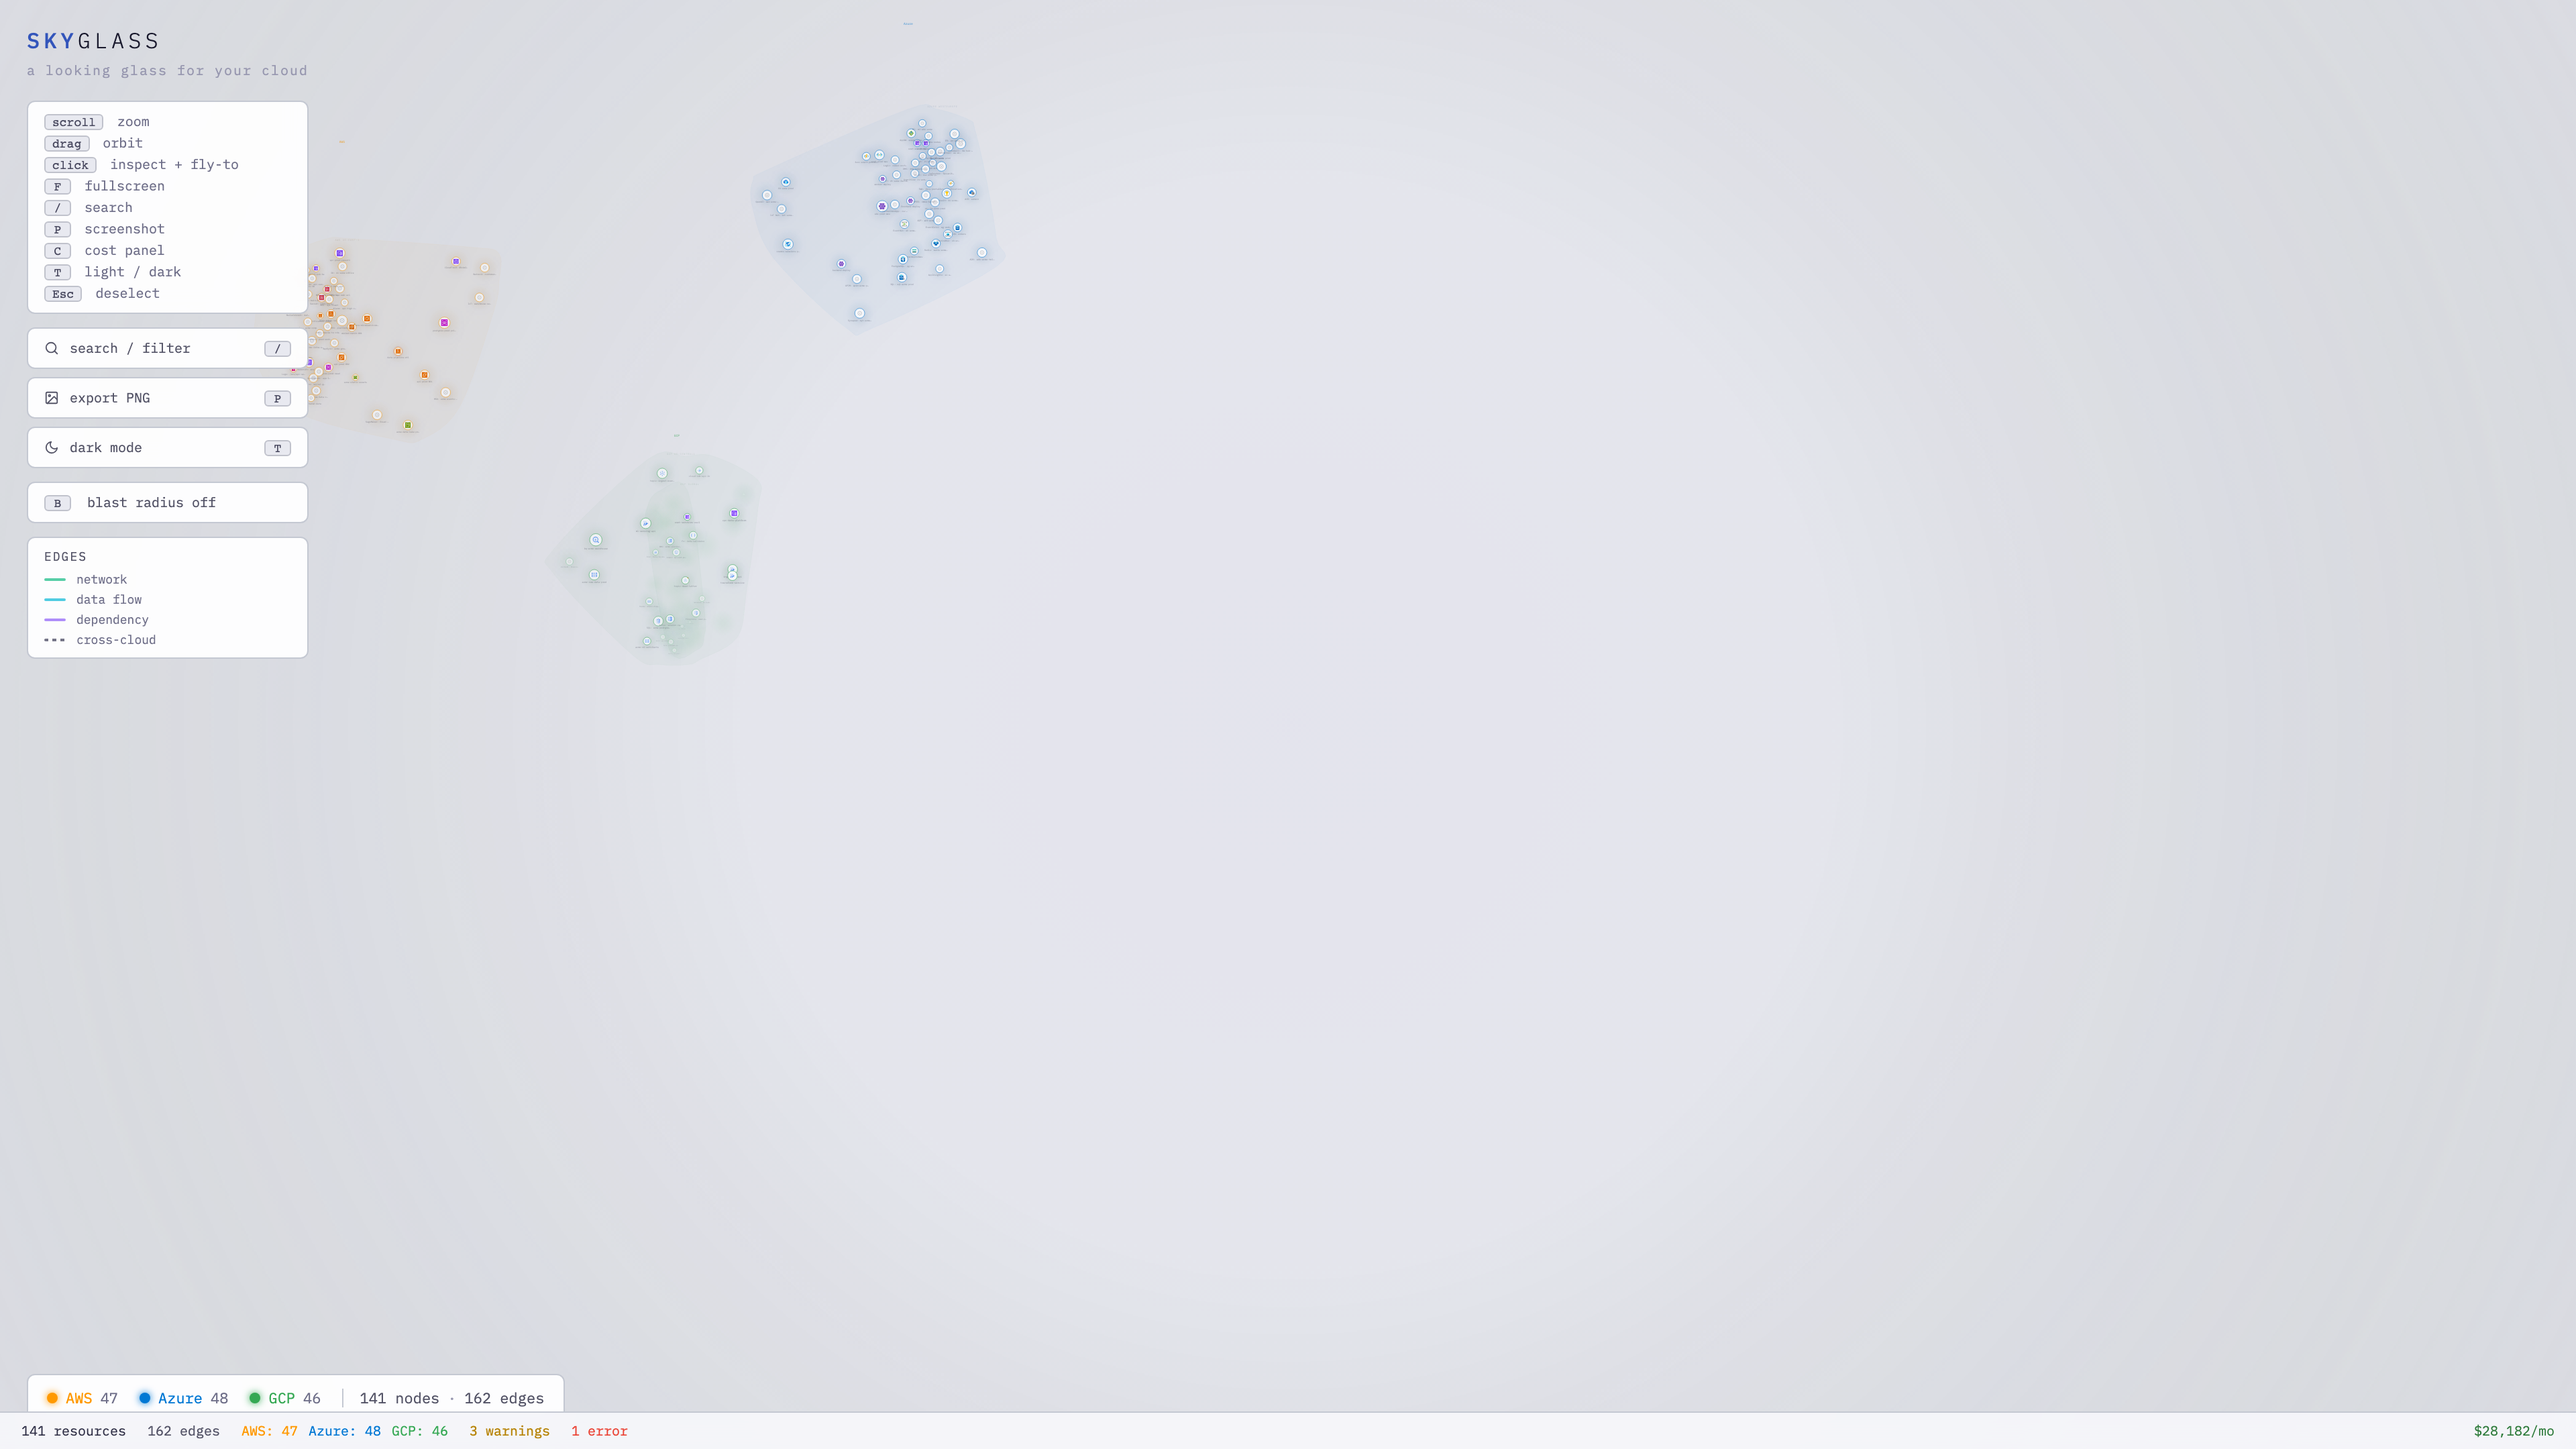
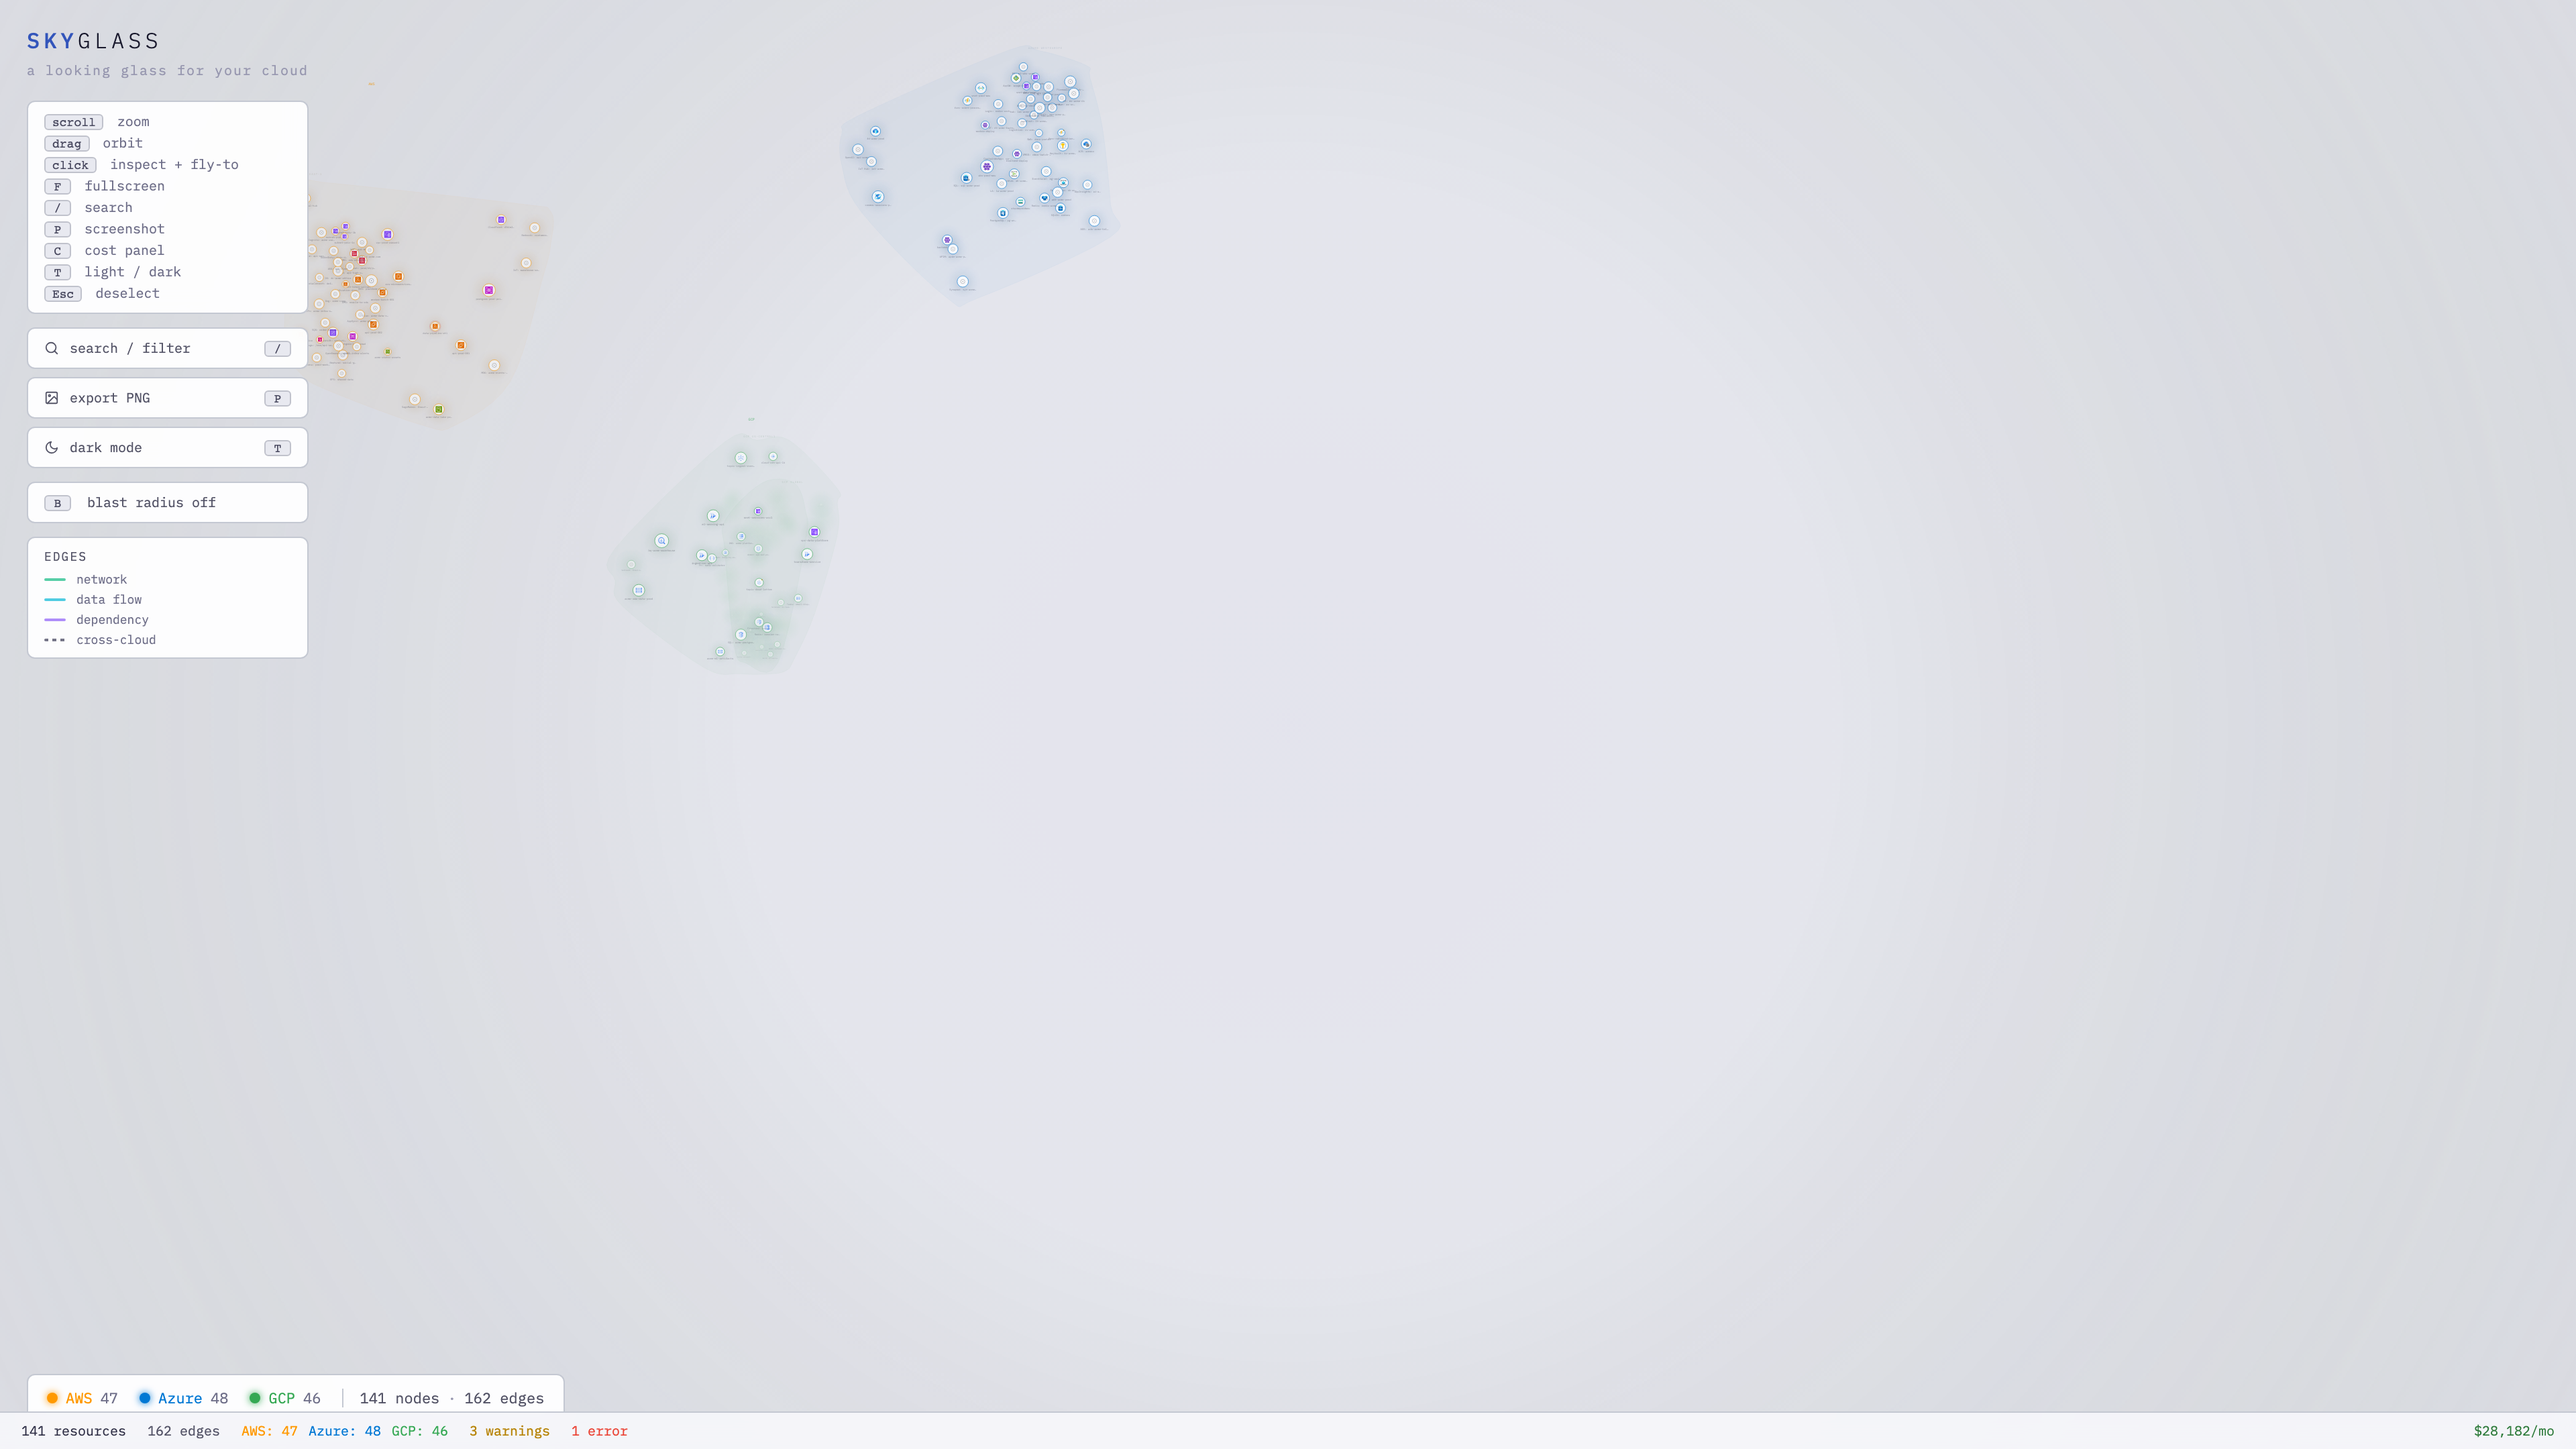
fix: center graph in usable viewport, add Camera2D.snapTo
- fitAll accepts hudOffsetPx to center graph right of HUD panel
- Camera2D.snapTo for instant positioning (no animation)
- Snap to centroid during layout convergence, flyTo on settled
- Recaptured screenshots at 2x retina

Changed region(s): [[0.3125, 0.031, 0.4375, 0.1861], [0.25, 0.3722, 0.3125, 0.4653], [0.125, 0.1551, 0.1562, 0.2481]]

diff --git a/src/canvas/Camera2D.ts b/src/canvas/Camera2D.ts
@@ -154,6 +154,17 @@ export class Camera2D {
   private _zoomAnchorVH = 0
 
   // -----------------------------------------------------------------------
+  /** Snap instantly to a position — no animation. */
+  snapTo(x: number, y: number, zoom: number): void {
+    this.x = x
+    this.y = y
+    this.zoom = Math.min(this.maxZoom, Math.max(this.minZoom, zoom))
+    this.zoomTarget = this.zoom
+    this.animating = false
+    this.zoomInterpolating = false
+    this.dirty = true
+  }
+
   // Animated fly-to
   // -----------------------------------------------------------------------
 
@@ -171,12 +182,18 @@ export class Camera2D {
     this.dirty = true
   }
 
+  /**
+   * @param hudOffsetPx — screen-space px taken by the HUD on the left.
+   *   The camera center is shifted so the graph appears centered in the
+   *   remaining viewport area (right of HUD).
+   */
   fitAll(
     points: [number, number][],
     viewWidth: number,
     viewHeight: number,
     padding = 0.1,
     maxZoom = 2.0,
+    hudOffsetPx = 0,
   ): void {
     if (points.length === 0) return
 
@@ -193,7 +210,10 @@ export class Camera2D {
     const centerY = (minY + maxY) / 2
     const spanX = (maxX - minX) + 250
     const spanY = (maxY - minY) + 100
-    const availW = viewWidth * (1 - padding * 2)
+
+    // Use the usable area (right of HUD) for zoom calculation
+    const usableW = viewWidth - hudOffsetPx
+    const availW = usableW * (1 - padding * 2)
     const availH = viewHeight * (1 - padding * 2)
 
     let fitZoom: number
@@ -203,7 +223,15 @@ export class Camera2D {
     else fitZoom = Math.min(availW / spanX, availH / spanY)
 
     fitZoom = Math.min(maxZoom, Math.max(this.minZoom, fitZoom))
-    this.flyTo(centerX, centerY, fitZoom)
+
+    // Shift camera so graph is centered in the usable viewport (right of HUD).
+    // applyTransform: screenX = viewWidth/2 + (worldX - camera.x) * zoom
+    // We want worldX=centerX to appear at screenX = hudOffsetPx + usableW/2
+    // → camera.x = centerX - (hudOffsetPx + usableW/2 - viewWidth/2) / fitZoom
+    //            = centerX - (hudOffsetPx/2) / fitZoom
+    const camX = centerX - (hudOffsetPx / 2) / fitZoom
+
+    this.flyTo(camX, centerY, fitZoom)
   }
 
   // -----------------------------------------------------------------------

diff --git a/src/canvas/Canvas2DView.tsx b/src/canvas/Canvas2DView.tsx
@@ -79,37 +79,34 @@ export function Canvas2DView({
     r.updatePositions(layoutNodes)
 
     if (!hasFitted.current) {
-      // Compute centroid + bounding box of all nodes
-      let cx = 0, cy = 0
+      // Compute bounding box
       let minX = Infinity, maxX = -Infinity, minY = Infinity, maxY = -Infinity
       for (const n of layoutNodes) {
-        cx += n.x; cy += n.y
         if (n.x < minX) minX = n.x
         if (n.x > maxX) maxX = n.x
         if (n.y < minY) minY = n.y
         if (n.y > maxY) maxY = n.y
       }
-      cx /= layoutNodes.length; cy /= layoutNodes.length
 
-      // Offset centroid to compensate for the HUD panel on the left (~100px in world-space)
-      const hudOffset = 80 / Math.max(r.camera.zoom, 0.3)
-      r.camera.x = cx + hudOffset
-      r.camera.y = cy
+      const centerX = (minX + maxX) / 2
+      const centerY = (minY + maxY) / 2
+      const spanX = (maxX - minX) + 250
+      const spanY = (maxY - minY) + 100
 
-      if (!settled) {
-        // While converging, compute a zoom that fits the current bounding box
-        const spanX = (maxX - minX) + 250
-        const spanY = (maxY - minY) + 100
-        const fitZoom = Math.min(r.width * 0.76 / spanX, r.height * 0.76 / spanY)
-        r.camera.zoom = Math.max(0.4, fitZoom)
-      } else {
-        // Layout is done — fly to the best-fit view
+      // HUD takes 160px on the left — use remaining width for zoom calc
+      const hudPx = 160
+      const usableW = r.width - hudPx
+      const fitZoom = Math.min(usableW * 0.76 / spanX, r.height * 0.76 / spanY)
+      const zoom = Math.max(0.4, Math.min(1.2, fitZoom))
+
+      // Shift camera so graph is centered in usable area (right of HUD)
+      const camX = centerX - (hudPx / 2) / zoom
+
+      // Snap camera directly (no animation during convergence)
+      r.camera.snapTo(camX, centerY, zoom)
+
+      if (settled) {
         hasFitted.current = true
-        const spanX = (maxX - minX) + 250
-        const spanY = (maxY - minY) + 100
-        const fitZoom = Math.min(r.width * 0.76 / spanX, r.height * 0.76 / spanY)
-        const finalZoom = Math.max(0.4, Math.min(1.2, fitZoom))
-        r.camera.flyTo(cx + hudOffset, cy, finalZoom)
       }
     }
   }, [layoutNodes, settled])

diff --git a/src/canvas/Renderer2D.ts b/src/canvas/Renderer2D.ts
@@ -221,10 +221,10 @@ export class Renderer2D {
     this._cachedH = 0
   }
 
-  fitAll(padding = 0.12, maxZoom = 1.0) {
+  fitAll(padding = 0.12, maxZoom = 1.0, hudOffsetPx = 0) {
     if (this.nodes.length === 0) return
     const pts: [number, number][] = this.nodes.map(n => [n.x, n.y])
-    this.camera.fitAll(pts, this.width, this.height, padding, maxZoom)
+    this.camera.fitAll(pts, this.width, this.height, padding, maxZoom, hudOffsetPx)
   }
 
   // ---------------------------------------------------------------------------
